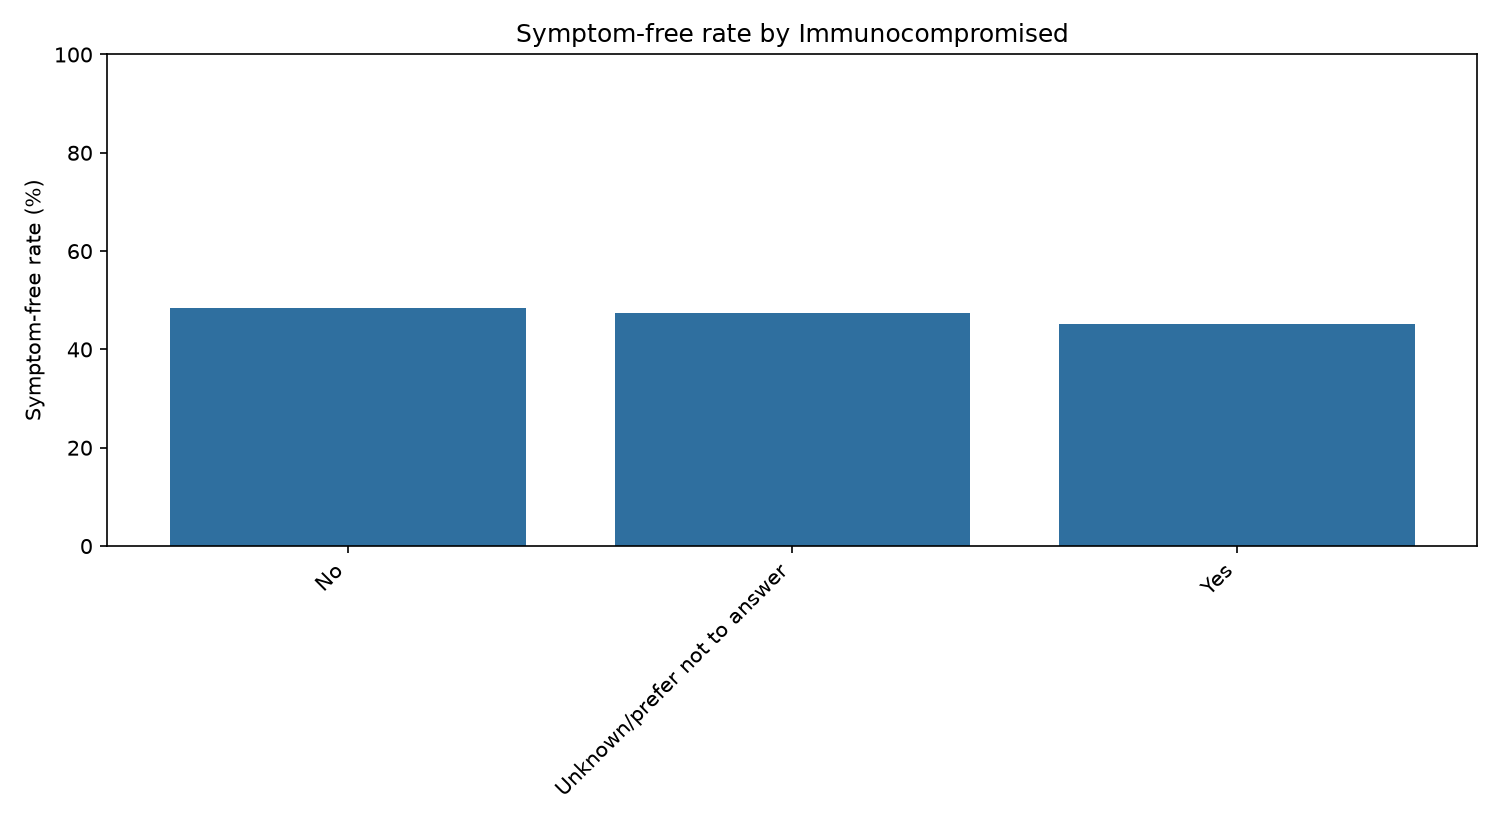
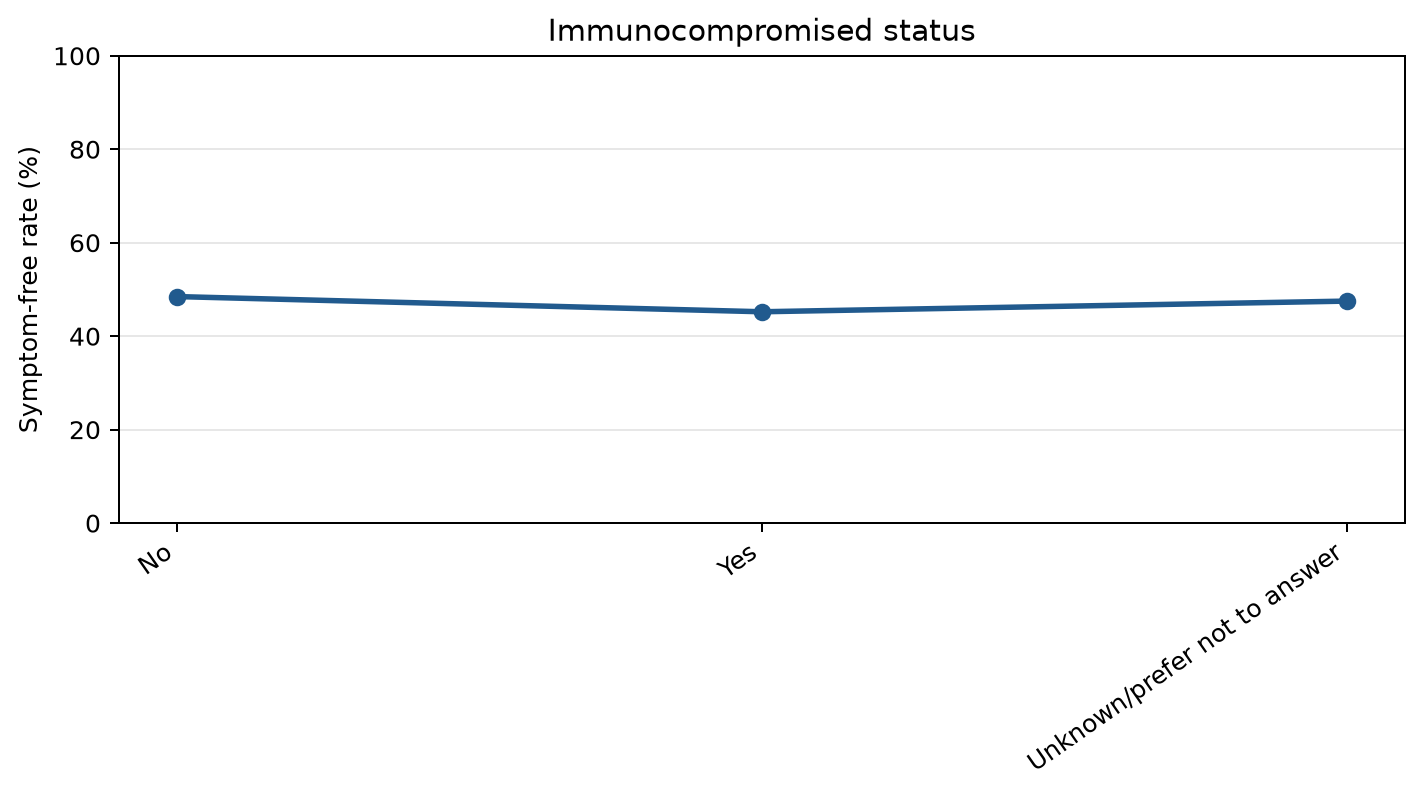
Switch graphs page to line charts

diff --git a/_site/graphs.html b/_site/graphs.html
@@ -227,7 +227,7 @@ ul.task-list li input[type="checkbox"] {
 
 <section id="covariate-efficacy-effects" class="level2">
 <h2 class="anchored" data-anchor-id="covariate-efficacy-effects">Covariate efficacy effects</h2>
-<p>This page shows one efficacy-effect chart per available covariate. The outcome proxy is a symptom-free indicator derived from the daily survey data, and each bar reports the average symptom-free rate within that covariate group.</p>
+<p>This page shows one efficacy-effect line chart per available covariate. The outcome proxy is a symptom-free indicator derived from the daily survey data, and each point reports the average symptom-free rate within that covariate group.</p>
 <blockquote class="blockquote">
 <p>Note: the provided CSV files do not contain a usable sex or gender column, so no real sex-based chart can be produced from this dataset without an additional source variable.</p>
 </blockquote>
